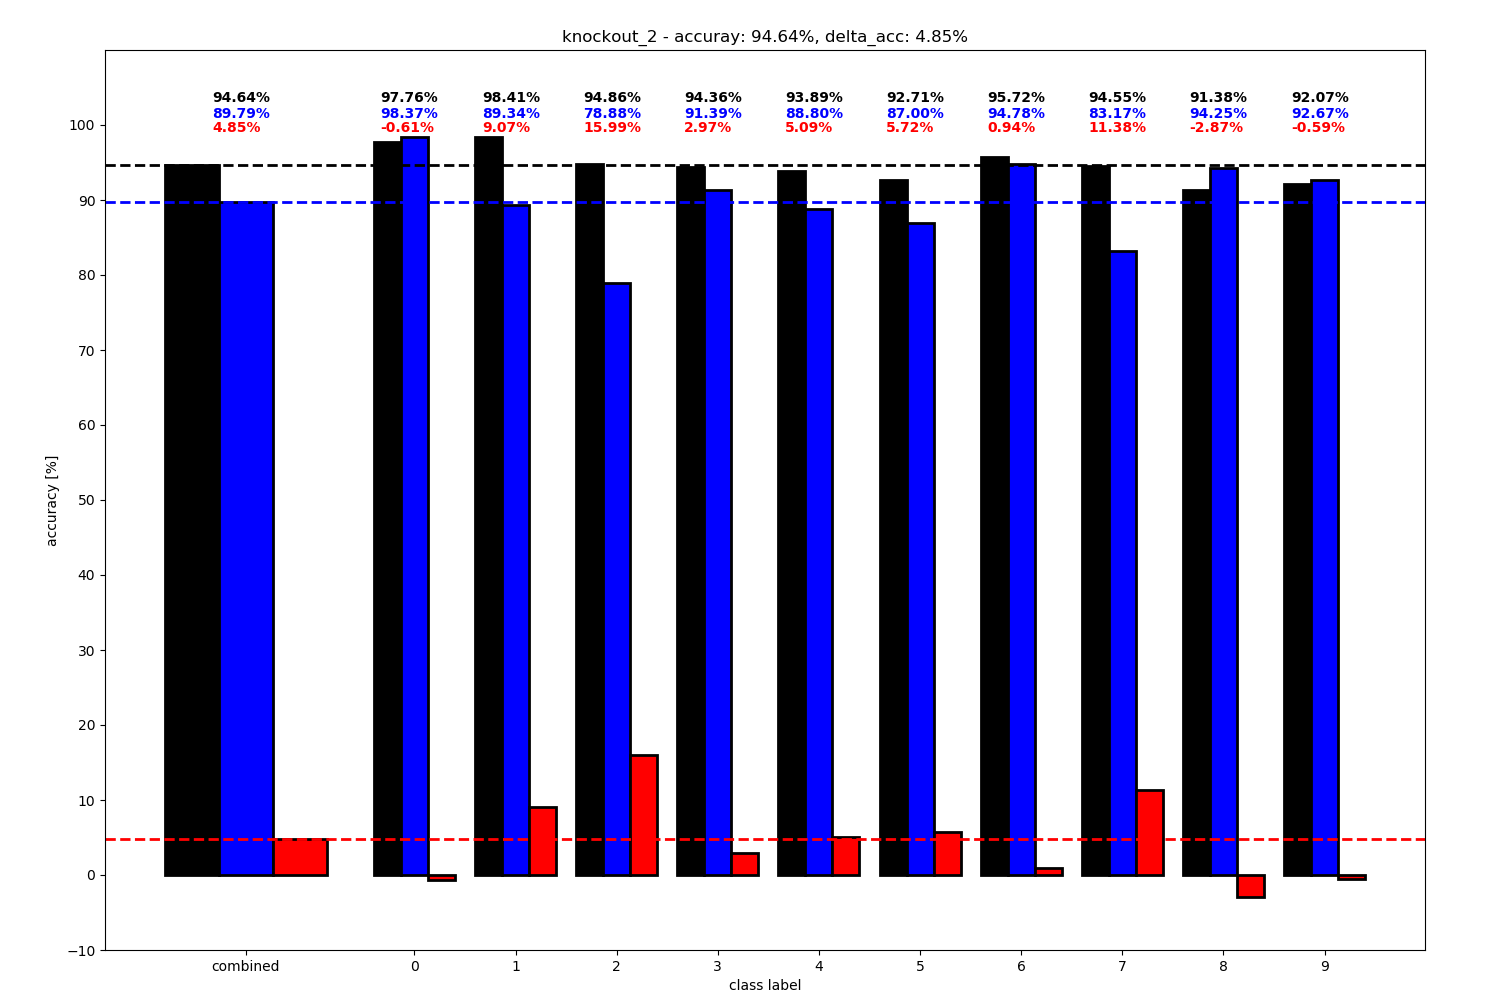
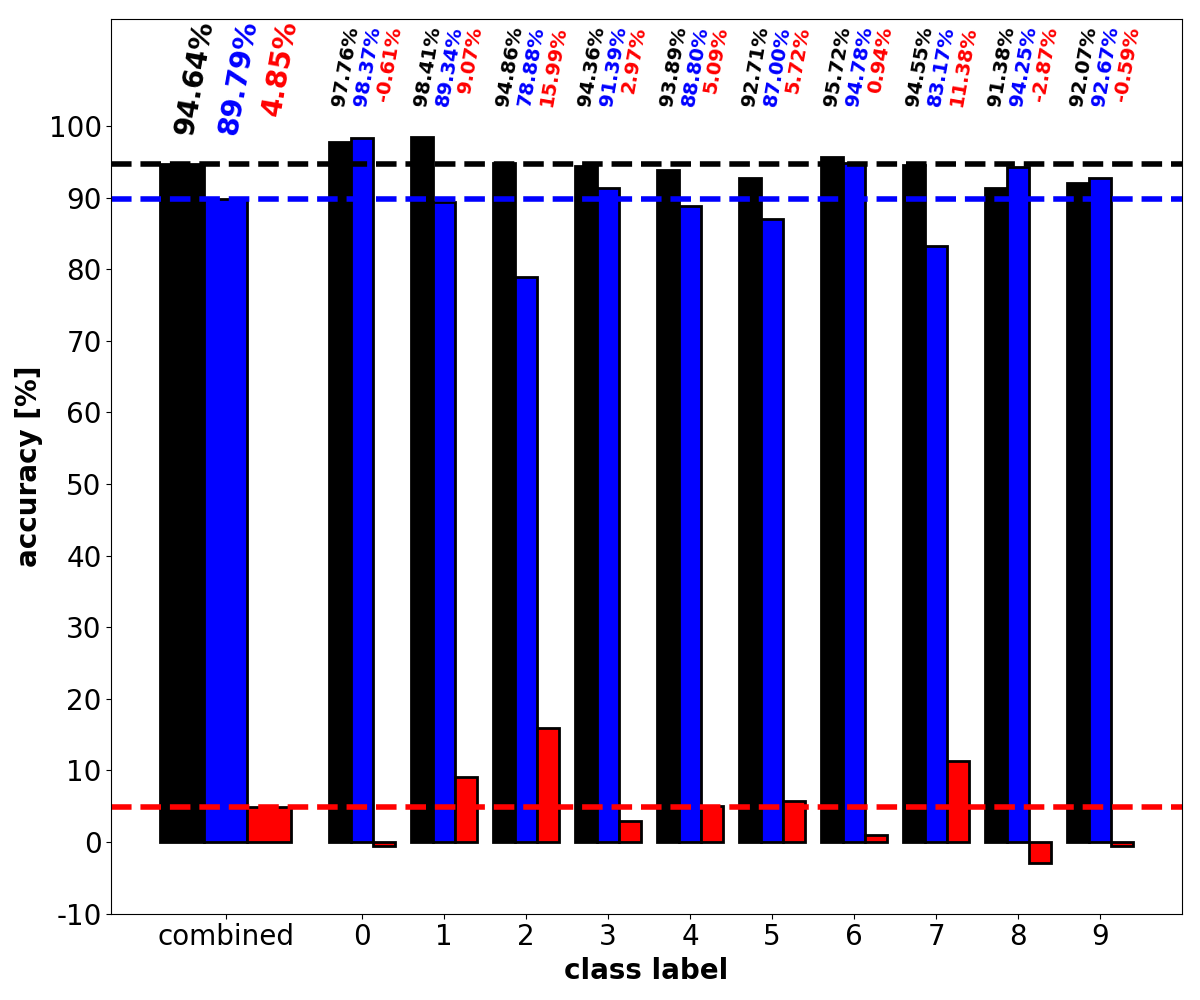
added code for custom knockout and more plots

diff --git a/MNIST/code/plot_custom_knockouts_l1.py b/MNIST/code/plot_custom_knockouts_l1.py
@@ -366,13 +366,9 @@ if __name__ == "__main__":
 
     device = torch.device("cuda:0" if torch.cuda.is_available() else "cpu")
     """ setting flags """
-    plot_w = False
-    plot_tSNE_ = False
-    plot_corr_acc_met = False
+    plot_w = True
+    plot_tSNE_ = True
     plot_unit_acc = True
-    plot_a = False
-    plot_corr_acc_act = False  # has only effect if plot_a is True
-    plot_a_split = False
 
     # load nets and weights
     net_trained = Net()
@@ -418,58 +414,40 @@ if __name__ == "__main__":
         plot_weights(weights_ini, scale, unit_struct_untrained, pixel_metrics_untrained, pixel_metrics_untrained,
                      title="untrained accuracy: {0}%".format(acc_untrained), name="0full")
 
-    # modify net, test accuracy and plot weights
-    accuracies = np.zeros(20)
-    accuracies_class = np.zeros((20, 10))
-    unit_labels_ko = np.zeros((20, 10000))
-    for i_unit in range(20):
-        print("knockout unit {0}".format(i_unit))
-        net_trained.load_state_dict(torch.load('../nets/MNIST_MLP(20, 10)_trained.pt'))
-        net_trained.eval()
-        net_trained.fc1.weight.data[i_unit, :] = torch.zeros(784)
-        # weights = (net.fc1.weight.data.numpy().T + net.fc1.bias.data.numpy()).T  # biases considered
-        weights = net_trained.fc1.weight.data.cpu().numpy()
-        acc, labels_ko, acc_class = net_trained.test_net(criterion, testloader, device)
-        accuracies[i_unit] = acc
-        accuracies_class[i_unit] = acc_class
-        unit_labels_ko[i_unit] = labels_ko
-        if plot_w:
-            plot_weights(weights, scale, unit_struct, pixel_metrics, pixel_metrics_untrained,
-                         title="knockout_" + str(i_unit+1) + ", accuray: {0}%, delta_acc: {1:.2f}%".format(acc, acc_full-acc),
-                         name="knockout_" + str(i_unit+1))
-        if plot_tSNE_:
-            labels_ko_cp = copy.deepcopy(labels_ko)
-            labels_ko[labels == -1] = -1
-            labels_ko[labels_ko_cp == 1] = 2
-            labels_ko[labels == 1] = 1
-            labels_ko[labels_ko_cp == 0] = 0
-            plot_tSNE(testloader, labels_ko, num_samples=10000, name="ko_" + str(i_unit + 1),
-                      title="knockout_" + str(i_unit + 1) + ", accuray: {0}%, delta_acc: {1:.2f}%".format(acc,
-                                                                                                          acc_full - acc))
-        if plot_unit_acc:
-            # plot_unit_class_acc(acc, acc_class,
-            #                     title="accuray: {0}%, delta_acc: {1:.2f}%".format(acc_full, acc_full-acc),
-            #                     name="knockout_{0}".format(i_unit + 1))
-            # plot_unit_class_acc(acc_full-acc, acc_class_full-acc_class,
-            #                     title="accuray: {0}%, delta_acc: {1:.2f}%".format(acc_full, acc_full-acc),
-            #                     color='r', name="knockout_{0}_delta".format(i_unit+1))
-            plot_unit_class_acc2((acc_full, acc), (acc_class_full, acc_class),
-                                title="knockout_{0} - accuray: {1}%, delta_acc: {2:.2f}%".format(i_unit+1, acc_full, acc_full-acc),
-                                name="knockout_{0}_combined".format(i_unit+1))
+    # specify custom knockout
+    ko_units = [5, 10, 12, 17]
 
-    if plot_corr_acc_met:
-        # plot correlation of accuracy drop with metrics
-        plot_acc_metric_corr(unit_struct[:, 3], acc_full-accuracies)
-    if plot_a:
-        net_trained.load_state_dict(torch.load('../nets/MNIST_MLP(20, 10)_trained.pt'))
-        net_trained.eval()
-        weights = net_trained.fc1.weight.data.cpu().numpy()
-        plot_activation(testloader, weights, weights_ini, acc_class_full, accuracies_class, plot_corr_acc_act)
-    if plot_a_split:
-        net_trained.load_state_dict(torch.load('../nets/MNIST_MLP(20, 10)_trained.pt'))
-        net_trained.eval()
-        weights = net_trained.fc1.weight.data.cpu().numpy()
-        unit_label_masks_recognized = unit_labels_ko == 1
-        unit_label_masks_not_recognized = unit_labels_ko == 0
-        plot_activation_ko(testloader, unit_label_masks_recognized, weights, acc_class_full, accuracies_class, "rec")
-        plot_activation_ko(testloader, unit_label_masks_not_recognized, weights, acc_class_full, accuracies_class, "not_rec")
+    # modify net, test accuracy and plot weights
+    unit_labels_ko = np.zeros((20, 10000))
+    print("knockout unit {0}".format(ko_units))
+    net_trained.load_state_dict(torch.load('../nets/MNIST_MLP(20, 10)_trained.pt'))
+    net_trained.eval()
+    for i_unit in ko_units:
+        net_trained.fc1.weight.data[i_unit, :] = torch.zeros(784)
+    # weights = (net.fc1.weight.data.numpy().T + net.fc1.bias.data.numpy()).T  # biases considered
+    weights = net_trained.fc1.weight.data.cpu().numpy()
+    acc, labels_ko, acc_class = net_trained.test_net(criterion, testloader, device)
+    unit_labels_ko = labels_ko
+    if plot_w:
+        plot_weights(weights, scale, unit_struct, pixel_metrics, pixel_metrics_untrained,
+                     title="knockout_" + str(ko_units) + ", accuray: {0}%, delta_acc: {1:.2f}%".format(acc, acc_full-acc),
+                     name="knockout_" + str(ko_units))
+    if plot_tSNE_:
+        labels_ko_cp = copy.deepcopy(labels_ko)
+        labels_ko[labels == -1] = -1
+        labels_ko[labels_ko_cp == 1] = 2
+        labels_ko[labels == 1] = 1
+        labels_ko[labels_ko_cp == 0] = 0
+        plot_tSNE(testloader, labels_ko, num_samples=10000, name="ko_" + str(ko_units),
+                  title="knockout_" + str(ko_units) + ", accuray: {0}%, delta_acc: {1:.2f}%".format(acc,
+                                                                                                          acc_full - acc))
+    if plot_unit_acc:
+        # plot_unit_class_acc(acc, acc_class,
+        #                     title="accuray: {0}%, delta_acc: {1:.2f}%".format(acc_full, acc_full-acc),
+        #                     name="knockout_{0}".format(i_unit + 1))
+        # plot_unit_class_acc(acc_full-acc, acc_class_full-acc_class,
+        #                     title="accuray: {0}%, delta_acc: {1:.2f}%".format(acc_full, acc_full-acc),
+        #                     color='r', name="knockout_{0}_delta".format(i_unit+1))
+        plot_unit_class_acc2((acc_full, acc), (acc_class_full, acc_class),
+                            title="knockout_{0} - accuray: {1}%, delta_acc: {2:.2f}%".format(ko_units, acc_full, acc_full-acc),
+                            name="knockout_{0}_combined".format(ko_units))
